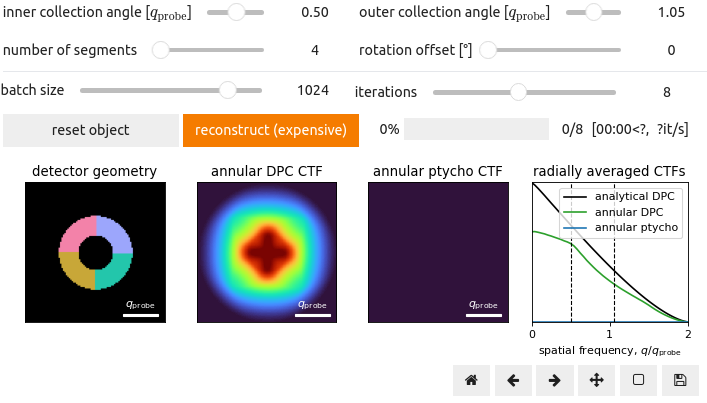
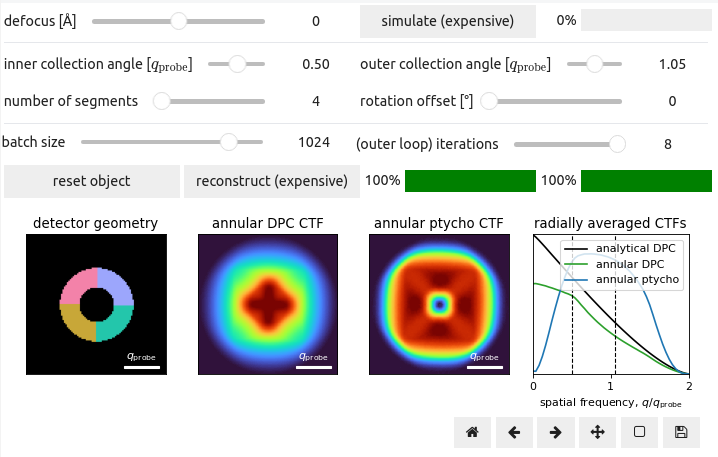
updating ptycho placeholder

diff --git a/01_icom_ctfs.md b/01_icom_ctfs.md
@@ -1,5 +1,5 @@
 ---
-title: Transfer of Information
+title: Transfer of Information (iCOM)
 ---
 
 # Implementation of the white noise object
